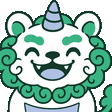
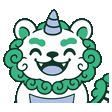
Unfurl the mascot off the strip and jump it into place; refit the head
The head beside the wordmark was resized by height and then squared,
which cut the mane's sides; both head cut-outs now fit inside their
square with a margin.

The empty-state entrance is now a carpet unrolling: the mascot starts as
a tight coil at the reel and rides the leading edge of the strip as it
lays out leftwards, spinning open and growing to full size, then
crouches and jumps the rest of the way into the middle, landing with a
squash. Every keyframe names the same four transform functions so the
interpolation stays honest.

diff --git a/web/style.css b/web/style.css
@@ -1398,26 +1398,38 @@ table.changes td.was { color: var(--muted-flat); text-decoration: line-through; 
     to   { transform: none; }
   }
 
-  /* The empty state: the reel turns, the strip unspools off it, and the
-     mascot rolls the length of the strip, lands, and settles. */
+  /* The empty state. The reel turns and the strip unspools off it to the
+     left; the mascot rides the strip's leading edge as a tight coil - its
+     tail is a curl of film, so this is where it comes from - unfurling and
+     growing to full size as the strip runs out, then crouches and jumps the
+     rest of the way into the middle, landing with a squash. Every frame
+     names the same four functions so the interpolation stays honest. */
   .rollin .reel { animation: reelspin 1.1s cubic-bezier(0.2, 0.7, 0.2, 1) both; }
   @keyframes reelspin {
-    from { transform: rotate(540deg); }
+    from { transform: rotate(720deg); }
     to   { transform: none; }
   }
-  .rollin .filmstrip { animation: unspool 0.7s cubic-bezier(0.2, 0.7, 0.2, 1) both; }
+  .rollin .filmstrip { animation: unspool 1.1s cubic-bezier(0.2, 0.7, 0.2, 1) both; }
   @keyframes unspool {
     from { transform: scaleX(0); }
     to   { transform: none; }
   }
-  .rollin .mascot { animation: rollin 1.2s cubic-bezier(0.2, 0.7, 0.2, 1) both; }
-  @keyframes rollin {
-    0%   { transform: translateX(min(260px, 40vw)) rotate(720deg); }
-    72%  { transform: translateX(0) rotate(0deg); }
-    86%  { transform: translateY(-8px) rotate(-3deg); }
-    100% { transform: none; }
+  .rollin .mascot {
+    --far: min(250px, 36vw);
+    --near: max(-190px, -28vw);
+    transform-origin: 50% 85%;
+    animation: unfurl 2.1s cubic-bezier(0.2, 0.7, 0.2, 1) both;
   }
-}
+  @keyframes unfurl {
+    0%   { transform: translate(var(--far), 0)   rotate(900deg) scale(0.22, 0.22); }
+    52%  { transform: translate(var(--near), 0)  rotate(0deg)   scale(1, 1); }
+    58%  { transform: translate(var(--near), 0)  rotate(0deg)   scale(1.08, 0.86); }
+    62%  { transform: translate(var(--near), 0)  rotate(-4deg)  scale(0.96, 1.06); }
+    80%  { transform: translate(calc(var(--near) / 2), -110px) rotate(6deg) scale(1, 1); }
+    95%  { transform: translate(0, 0)            rotate(0deg)   scale(1.1, 0.88); }
+    100% { transform: translate(0, 0)            rotate(0deg)   scale(1, 1); }
+  }
+}}
 
 @media (max-width: 620px) {
   .masthead { padding-top: 16px; }
